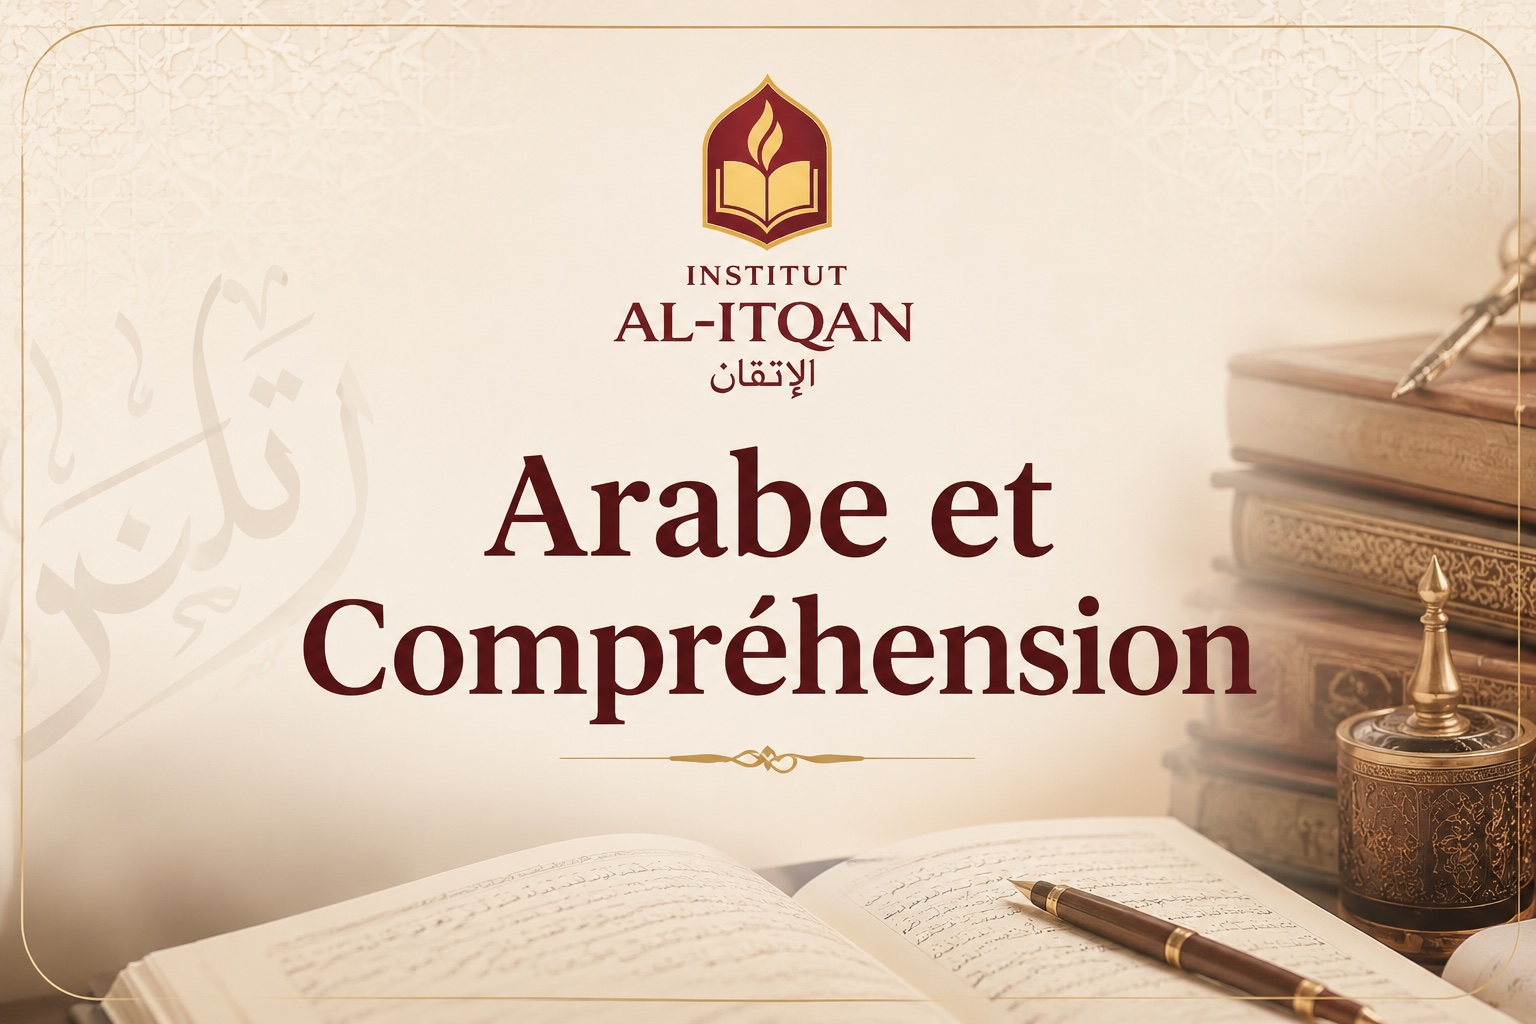
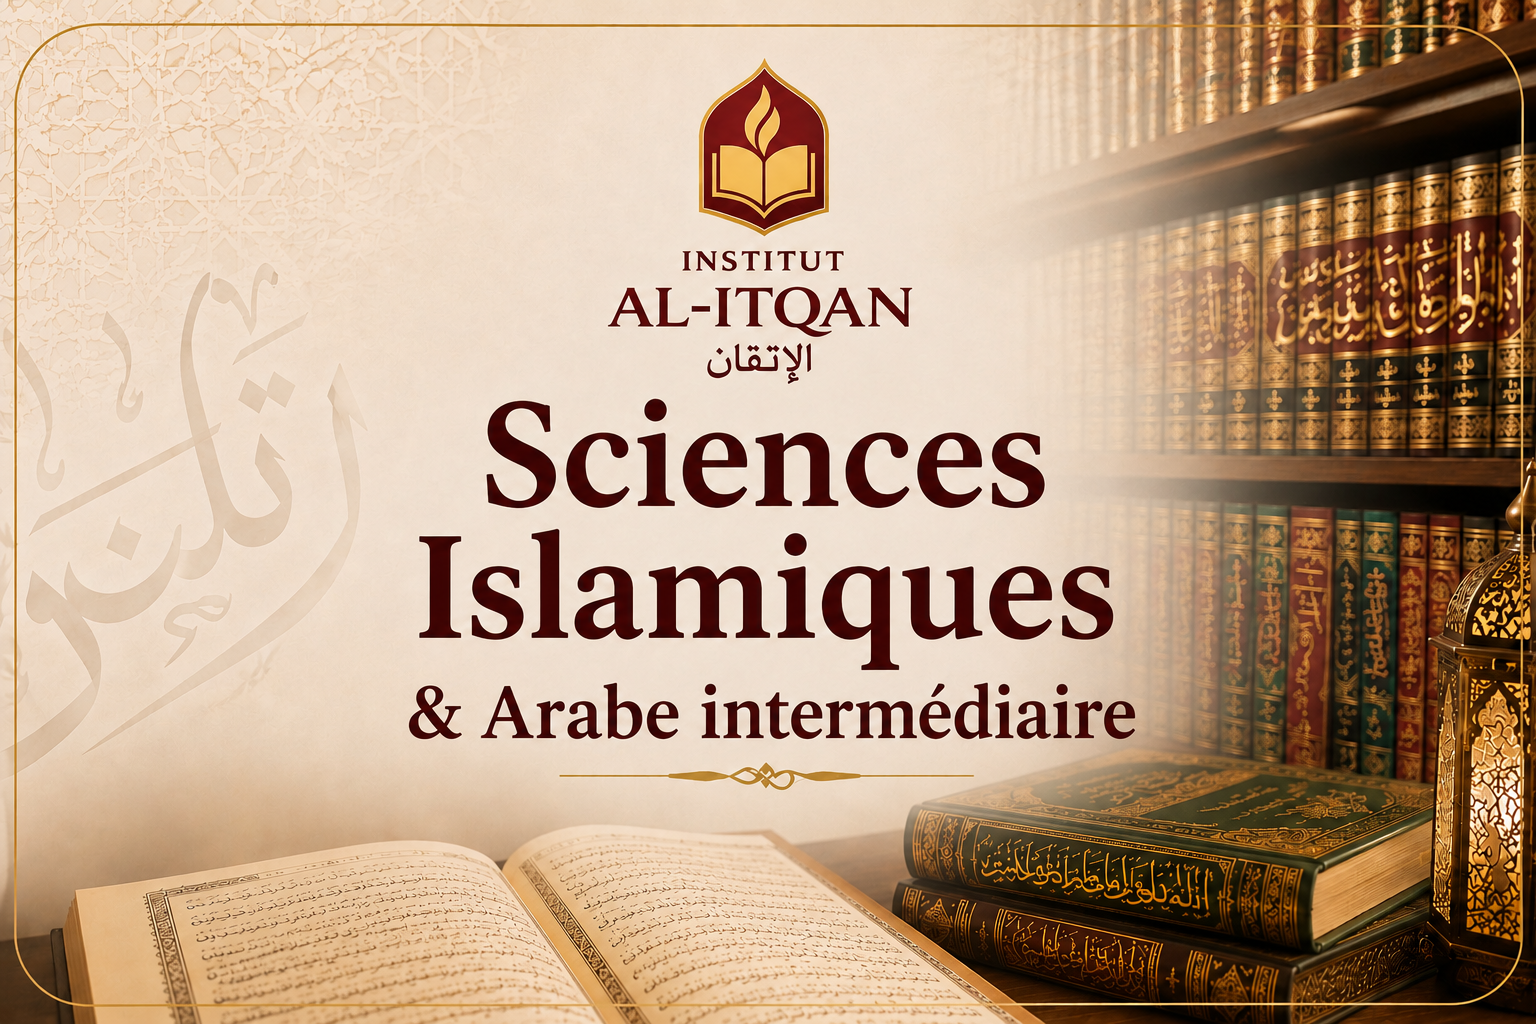
Mise à jour des intitulés des classes

diff --git a/app/inscription/InscriptionClient.tsx b/app/inscription/InscriptionClient.tsx
@@ -72,16 +72,16 @@ const FORMULES = [
   { id: 'coran',                titre: 'Coran',                    sous: 'Enfants & Adultes', emoji: 'book', desc: 'Mémorisation du Coran, tajwîd et suivi régulier en petits groupes.', couleur: '#C4365A', bg: 'rgba(196,54,90,0.10)' },
   { id: 'arabe-religion',       titre: 'Arabe et Religion',        sous: 'Enfants',           emoji: 'arch', desc: 'Arabe fondamental, compréhension religieuse et bases solides dès le plus jeune âge.', couleur: '#3A8C62', bg: 'rgba(58,140,98,0.10)' },
   { id: 'arabe-adultes',        titre: 'Lecture Arabe',            sous: 'Adultes débutants', emoji: 'pen',  desc: 'Lecture, écriture et bases de la langue arabe — accompagnement adapté aux adultes.', couleur: '#8B6020', bg: 'rgba(139,96,32,0.10)' },
-  { id: 'sciences-islamiques',  titre: 'Sciences Islamiques',      sous: 'Adultes · Mixte',   emoji: 'book', desc: 'Cours de sciences islamiques pour adultes, hommes et femmes. Approfondissement des fondements de la religion.', couleur: '#B89B6A', bg: 'rgba(184,155,106,0.10)' },
-  { id: 'arabe-comprehension',  titre: 'Arabe et Compréhension',          sous: 'Adultes · Mixte',   emoji: 'pen',  desc: "Cours d'arabe pour adultes : apprendre la langue arabe en profondeur, la comprendre et la parler.", couleur: '#8B6020', bg: 'rgba(139,96,32,0.10)' },
+  { id: 'sciences-islamiques',  titre: 'Sciences Islamiques et Arabe débutant',      sous: 'Adultes · Mixte',   emoji: 'book', desc: 'Cours de sciences islamiques pour adultes, hommes et femmes. Approfondissement des fondements de la religion.', couleur: '#B89B6A', bg: 'rgba(184,155,106,0.10)' },
+  { id: 'arabe-comprehension',  titre: 'Sciences Islamiques et Arabe intermédiaire',          sous: 'Adultes · Mixte',   emoji: 'pen',  desc: "Cours d'arabe pour adultes : apprendre la langue arabe en profondeur, la comprendre et la parler.", couleur: '#8B6020', bg: 'rgba(139,96,32,0.10)' },
 ]
 
 const CLASSES_MENU = [
-  { id: 'coran',               full: 'Classes Coran',                 sub: 'Enfants & Adultes' },
-  { id: 'al-itqan',            full: 'Classe Arabe et Religion',      sub: 'Enfants'           },
-  { id: 'arabe',               full: 'Classes Arabe',                 sub: 'Adultes'           },
-  { id: 'sciences-islamiques', full: 'Classe Sciences Islamiques',    sub: 'Adultes · Mixte'   },
-  { id: 'arabe-comprehension', full: 'Classe Arabe et Compréhension', sub: 'Adultes · Mixte'   },
+  { id: 'coran',               full: 'Coran',                 sub: 'Enfants & Adultes' },
+  { id: 'al-itqan',            full: 'Arabe et Religion',      sub: 'Enfants'           },
+  { id: 'arabe',               full: 'Lecture Arabe',                 sub: 'Adultes'           },
+  { id: 'sciences-islamiques', full: 'Sciences Islamiques et Arabe débutant',    sub: 'Adultes · Mixte'   },
+  { id: 'arabe-comprehension', full: 'Sciences Islamiques et Arabe intermédiaire', sub: 'Adultes · Mixte'   },
 ]
 
 const NB_ELEVES = [1, 2, 3, 4, 5]

diff --git a/components/Navbar.tsx b/components/Navbar.tsx
@@ -6,11 +6,11 @@ import Link from 'next/link'
 import { createClient } from '@/lib/supabase/client'
 
 const CLASSES_MENU = [
-  { id: 'coran',               full: 'Classes Coran',                 sub: 'Enfants & Adultes' },
-  { id: 'al-itqan',            full: 'Classe Arabe et Religion',      sub: 'Enfants'           },
-  { id: 'arabe',               full: 'Classes Arabe',                 sub: 'Adultes'           },
-  { id: 'sciences-islamiques', full: 'Classe Sciences Islamiques',    sub: 'Adultes · Mixte'   },
-  { id: 'arabe-comprehension', full: 'Classe Arabe et Compréhension', sub: 'Adultes · Mixte'   },
+  { id: 'coran',               full: 'Coran',                 sub: 'Enfants & Adultes' },
+  { id: 'al-itqan',            full: 'Arabe et Religion',      sub: 'Enfants'           },
+  { id: 'arabe',               full: 'Lecture Arabe',                 sub: 'Adultes'           },
+  { id: 'sciences-islamiques', full: 'Sciences Islamiques et Arabe débutant',    sub: 'Adultes · Mixte'   },
+  { id: 'arabe-comprehension', full: 'Sciences Islamiques et Arabe intermédiaire', sub: 'Adultes · Mixte'   },
 ]
 
 type Props = {
@@ -115,7 +115,7 @@ export default function Navbar({ userEmail, activeTab, onTabChange, onClasseChan
             </button>
 
             {menuOpen && (
-              <div className="absolute top-full left-0 mt-2 w-72 rounded-2xl overflow-hidden z-[200] animate-fade-up"
+              <div className="absolute top-full left-0 mt-2 w-[22rem] rounded-2xl overflow-hidden z-[200] animate-fade-up"
                 style={{
                   background: '#F4EBDD',
                   border:     '1px solid rgba(184,155,106,0.35)',
@@ -128,7 +128,7 @@ export default function Navbar({ userEmail, activeTab, onTabChange, onClasseChan
                     style={{ borderBottom: i < CLASSES_MENU.length - 1 ? '1px solid rgba(184,155,106,0.22)' : 'none' }}
                     onMouseEnter={e => (e.currentTarget as HTMLElement).style.background = 'rgba(184,155,106,0.18)'}
                     onMouseLeave={e => (e.currentTarget as HTMLElement).style.background = 'transparent'}>
-                    <p className="text-sm font-semibold whitespace-nowrap" style={{ color: '#3D2B1F' }}>
+                    <p className="text-[13.5px] font-semibold whitespace-nowrap" style={{ color: '#3D2B1F' }}>
                       {cl.full}
                     </p>
                     <p className="text-xs mt-0.5" style={{ color: '#8C6E44' }}>{cl.sub}</p>

diff --git a/components/ParentDashboard.tsx b/components/ParentDashboard.tsx
@@ -32,11 +32,11 @@ type Props = {
 const INSCRIPTION_URL = 'https://forms.gle/22KxDezaptLUqKPE7'
 
 const CLASSES_MENU = [
-  { id: 'coran',              label: 'Coran',                  full: 'Classe Coran',                     sub: 'Enfants & Adultes', icon: 'book'   },
-  { id: 'al-itqan',           label: 'Arabe et Religion',     full: 'Classe Arabe et Religion',          sub: 'Enfants',           icon: 'arch'   },
-  { id: 'arabe',              label: 'Lecture Arabe',         full: 'Classe Lecture Arabe',              sub: 'Adultes',           icon: 'pen'    },
-  { id: 'sciences-islamiques',label: 'Sciences Islamiques',   full: 'Classe Sciences Islamiques',        sub: 'Adultes · Mixte',   icon: 'star'   },
-  { id: 'arabe-comprehension',label: 'Arabe et Compréhension',full: 'Classe Arabe et Compréhension',     sub: 'Adultes · Mixte',   icon: 'speech' },
+  { id: 'coran',              label: 'Coran',                  full: 'Coran',                     sub: 'Enfants & Adultes', icon: 'book'   },
+  { id: 'al-itqan',           label: 'Arabe et Religion',     full: 'Arabe et Religion',          sub: 'Enfants',           icon: 'arch'   },
+  { id: 'arabe',              label: 'Lecture Arabe',         full: 'Lecture Arabe',              sub: 'Adultes',           icon: 'pen'    },
+  { id: 'sciences-islamiques',label: 'Sciences Islamiques et Arabe débutant',   full: 'Sciences Islamiques et Arabe débutant',        sub: 'Adultes · Mixte',   icon: 'star'   },
+  { id: 'arabe-comprehension',label: 'Sciences Islamiques et Arabe intermédiaire',full: 'Sciences Islamiques et Arabe intermédiaire',     sub: 'Adultes · Mixte',   icon: 'speech' },
 ]
 
 // ── Icônes élégantes (trait fin, cohérentes) ───────────────────────────────────
